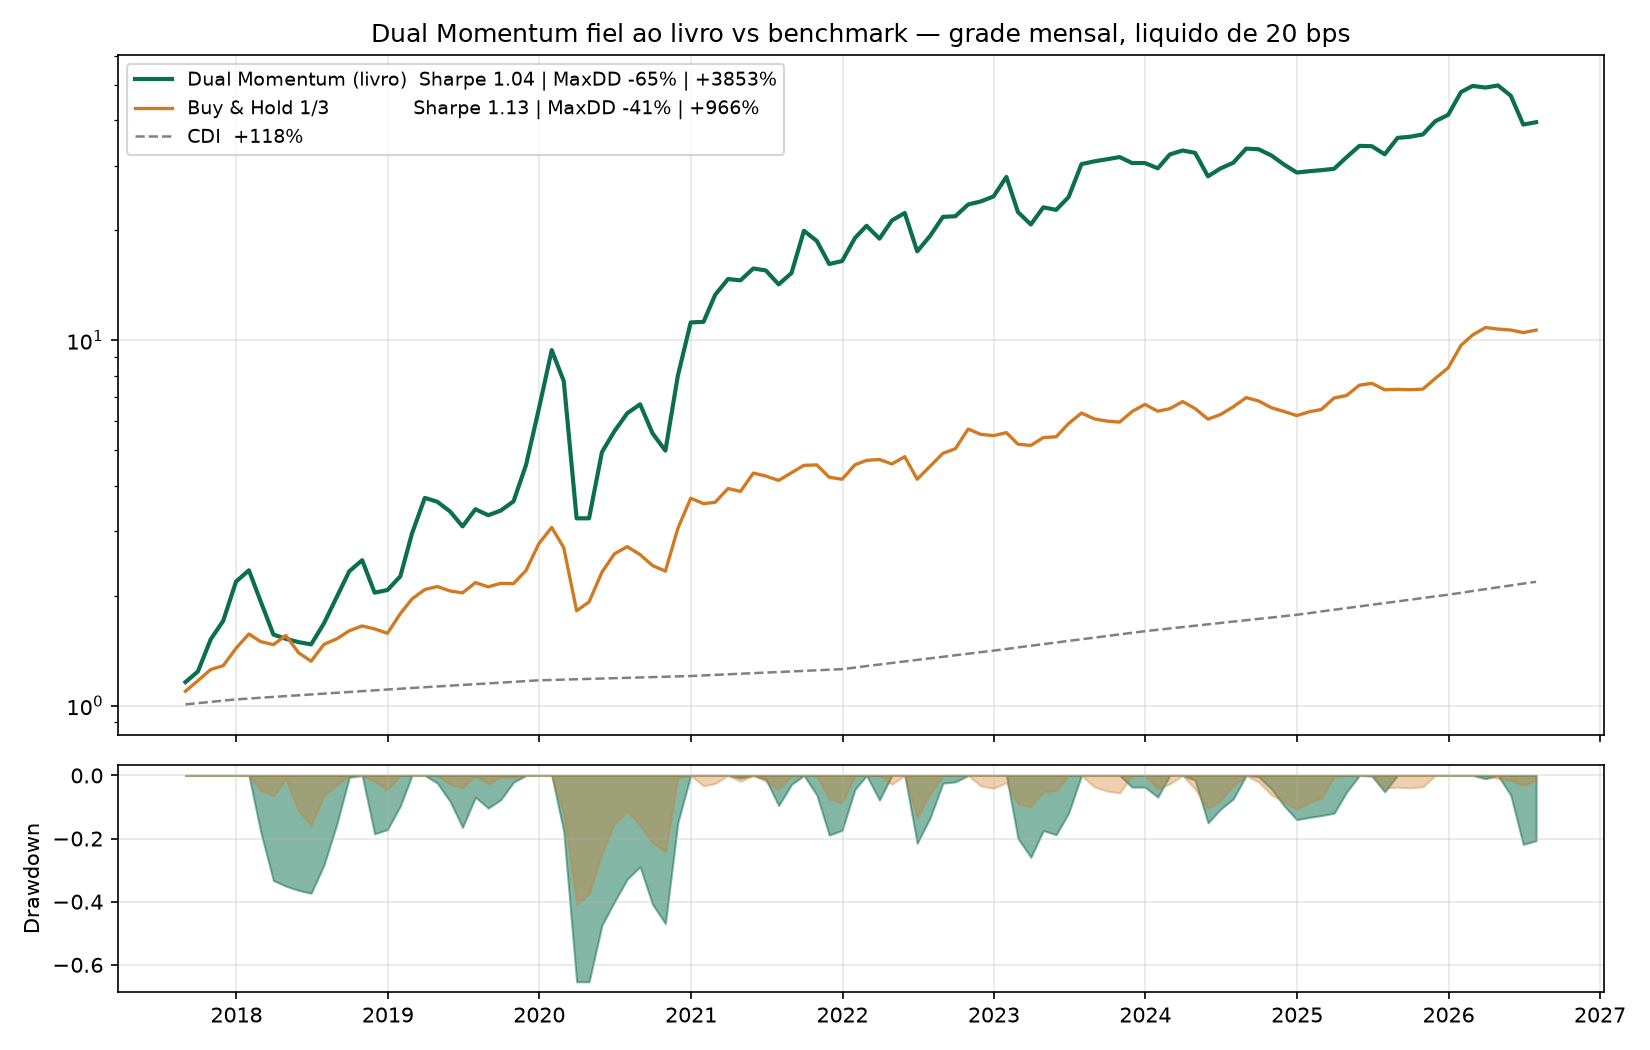
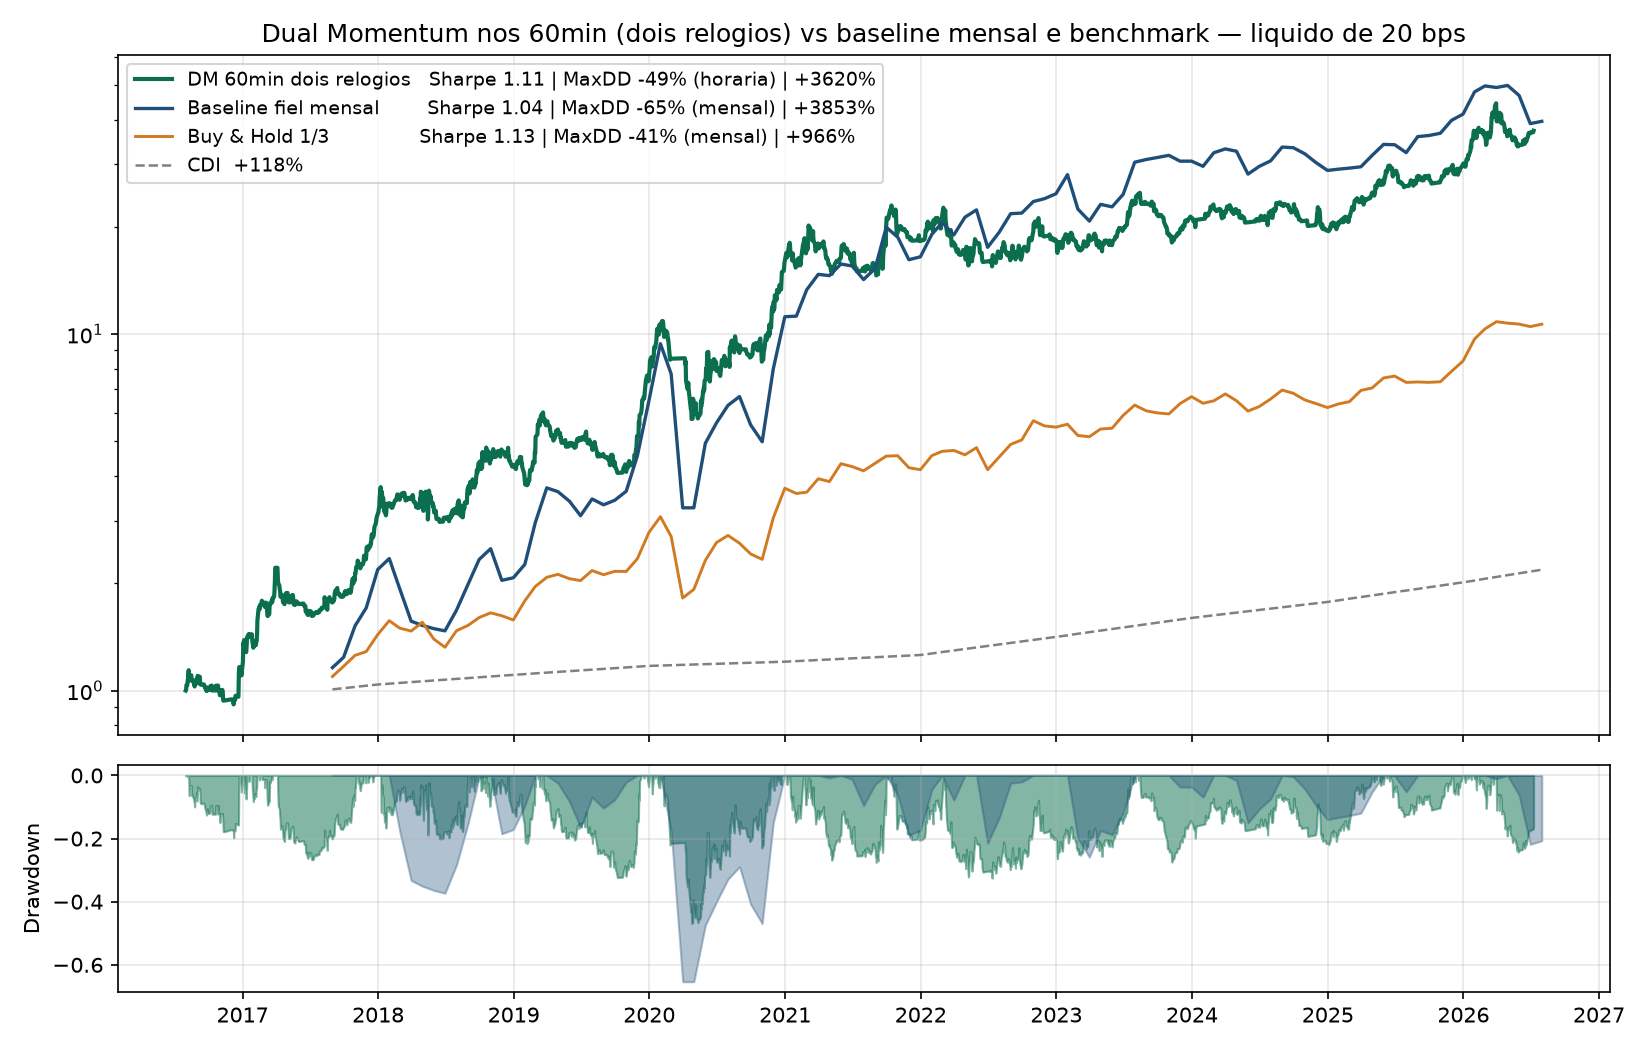
DM apresentado vira a versao 60min (dois relogios); mensal fica de baseline
dual_momentum.py agora roda o nucleo do livro nas barras de 60min com
histerese de 5% e perna absoluta travada no relogio diario (E33b).
Baseline fiel mensal preservado em dual_momentum_mensal.py. Grafico,
pseudocodigo e README atualizados com a leitura honesta (deflacao declarada).

diff --git a/dual_momentum_graf.py b/dual_momentum_graf.py
@@ -1,9 +1,9 @@
 # -*- coding: utf-8 -*-
 """
-Grafico da apresentacao: Dual Momentum fiel vs Buy & Hold 1/3 vs CDI
-Mesma logica e mesmos numeros do dual_momentum_livro.py (grade MENSAL, 20 bps).
-Gera dm_vs_benchmark.png (patrimonio em escala log + drawdown).
-Rodar da raiz Quantitative: python3 dual_momentum/dual_momentum_graf.py
+Grafico da apresentacao: Dual Momentum 60min (dois relogios) vs baseline mensal,
+Buy & Hold 1/3 e CDI. Mesmos numeros dos scripts dual_momentum_60min.py (curva
+horaria, amostrada no fim do dia para o grafico) e dual_momentum_mensal.py.
+Gera dual_momentum/dm_vs_benchmark.png. Rodar da raiz Quantitative.
 """
 import pandas as pd
 import numpy as np
@@ -11,61 +11,96 @@ import matplotlib
 matplotlib.use('Agg')
 import matplotlib.pyplot as plt
 
-CUSTO  = 0.0020
+CUSTO, BUFFER, LOOKBACK, HORAS_POR_ANO = 0.0020, 0.05, 140, 252 * 7
 ATIVOS = ['PRIO3', 'ITUB3', 'ABEV3']
 CDI_POR_ANO = {2016: 0.1400, 2017: 0.0993, 2018: 0.0642, 2019: 0.0596, 2020: 0.0276,
                2021: 0.0442, 2022: 0.1239, 2023: 0.1304, 2024: 0.1088, 2025: 0.1350,
                2026: 0.1500}
 
-# %% 1) Mesma preparacao do dual_momentum_livro.py
 base = pd.read_csv('dados/base_plana.csv', parse_dates=['data'])
-fech = (base[base['hora'] == 'dia'].set_index('data')[[f'{a}_fechamento' for a in ATIVOS]])
-fech.columns = ATIVOS
-mensal = fech.resample('ME').last()
-retorno = mensal.pct_change()
-cdi_mensal = (1 + pd.Series(mensal.index.year, index=mensal.index).map(CDI_POR_ANO)) ** (1/12) - 1
-cdi_12m    = (1 + cdi_mensal).rolling(12).apply(np.prod, raw=True) - 1
 
-momentum = mensal.pct_change(12)
-lider    = momentum.dropna(how='all').idxmax(axis=1).reindex(momentum.index)
-investe  = momentum.max(axis=1) > cdi_12m
-matriz_lider = pd.get_dummies(lider).reindex(index=mensal.index, columns=ATIVOS, fill_value=False)
-peso  = matriz_lider.mul(investe, axis=0).astype(float)
-caixa = 1 - peso.sum(axis=1)
+# %% 1) DM 60min — dois relogios (identico ao dual_momentum_60min.py)
+df = base[base['hora'] != 'dia'].copy()
+df['timestamp'] = pd.to_datetime(df['data'].dt.strftime('%Y-%m-%d') + ' ' + df['hora'])
+fech_h = df.sort_values('timestamp').set_index('timestamp')[[f'{a}_fechamento' for a in ATIVOS]]
+fech_h.columns = ATIVOS
+ret_h = fech_h.pct_change()
+cdi_hora = pd.Series((1 + fech_h.index.year.map(CDI_POR_ANO)) ** (1/HORAS_POR_ANO) - 1, index=fech_h.index)
+cdi_acum = (1 + cdi_hora).rolling(LOOKBACK).apply(np.prod, raw=True) - 1
+mom_h = fech_h.pct_change(LOOKBACK)
 
-# %% 2) As tres curvas no MESMO periodo (sinal de t paga em t+1)
-ret_dm  = ((peso.shift(1) * retorno).sum(axis=1) + caixa.shift(1) * cdi_mensal
-           - peso.diff().abs().sum(axis=1) * CUSTO).iloc[13:]
-ret_bh  = retorno.mean(axis=1).iloc[13:]                # 1/3 em cada acao, rebalanceado ao mes
-ret_cdi = cdi_mensal.iloc[13:]
+M, C, R, CDI = mom_h.values, cdi_acum.values, ret_h.values, cdi_hora.values
+novo_dia = np.r_[True, fech_h.index.normalize()[1:] != fech_h.index.normalize()[:-1]]
+posicao, investe = -1, False
+ret_barra = np.zeros(len(fech_h))
+for t in range(LOOKBACK + 1, len(fech_h) - 1):
+    m = M[t]
+    if np.isnan(m).all() or np.isnan(C[t]):
+        continue
+    lider = int(np.nanargmax(m))
+    if novo_dia[t]:
+        investe = m[lider] > C[t]
+    alvo = posicao
+    if not investe:
+        alvo = -1
+    elif posicao == -1:
+        alvo = lider
+    elif lider != posicao and m[lider] - m[posicao] > BUFFER:
+        alvo = lider
+    pernas = (alvo != posicao) * ((posicao != -1) + (alvo != -1))
+    posicao = alvo
+    ganho = R[t + 1, posicao] if posicao != -1 else CDI[t + 1]
+    ret_barra[t + 1] = (0.0 if np.isnan(ganho) else ganho) - pernas * CUSTO
+ret_dm60 = pd.Series(ret_barra, index=fech_h.index).iloc[LOOKBACK + 2:]
+eq_dm60  = (1 + ret_dm60).cumprod()
+sh_dm60  = ret_dm60.mean() / ret_dm60.std() * np.sqrt(HORAS_POR_ANO)
+dd_dm60  = (eq_dm60 / eq_dm60.cummax() - 1).min()
+eq_dm60_dia = eq_dm60.resample('D').last().dropna()          # amostra diaria SO para desenhar
 
-def resumo(r):
+# %% 2) Baseline mensal fiel + B&H 1/3 + CDI (identico ao dual_momentum_mensal.py)
+fech_d = (base[base['hora'] == 'dia'].set_index('data')[[f'{a}_fechamento' for a in ATIVOS]])
+fech_d.columns = ATIVOS
+mensal = fech_d.resample('ME').last()
+ret_m = mensal.pct_change()
+cdi_mes = (1 + pd.Series(mensal.index.year, index=mensal.index).map(CDI_POR_ANO)) ** (1/12) - 1
+cdi_12m = (1 + cdi_mes).rolling(12).apply(np.prod, raw=True) - 1
+mom_m = mensal.pct_change(12)
+lider_m = mom_m.dropna(how='all').idxmax(axis=1).reindex(mom_m.index)
+investe_m = mom_m.max(axis=1) > cdi_12m
+peso_m = pd.get_dummies(lider_m).reindex(index=mensal.index, columns=ATIVOS, fill_value=False)
+peso_m = peso_m.mul(investe_m, axis=0).astype(float)
+ret_gem = ((peso_m.shift(1) * ret_m).sum(axis=1) + (1 - peso_m.sum(axis=1)).shift(1) * cdi_mes
+           - peso_m.diff().abs().sum(axis=1) * CUSTO).iloc[13:]
+ret_bh  = ret_m.mean(axis=1).iloc[13:]
+
+def resumo(r, periodos):
     eq = (1 + r).cumprod()
-    return eq, r.mean() / r.std() * np.sqrt(12), (eq / eq.cummax() - 1).min()
+    return eq, r.mean() / r.std() * np.sqrt(periodos), (eq / eq.cummax() - 1).min()
 
-eq_dm, sh_dm, dd_dm = resumo(ret_dm)
-eq_bh, sh_bh, dd_bh = resumo(ret_bh)
-eq_cdi = (1 + ret_cdi).cumprod()
+eq_gem, sh_gem, dd_gem = resumo(ret_gem, 12)
+eq_bh,  sh_bh,  dd_bh  = resumo(ret_bh, 12)
+eq_cdi = (1 + cdi_mes.iloc[13:]).cumprod()
 
-# %% 3) O grafico: patrimonio (log) em cima, drawdown embaixo
+# %% 3) O grafico: patrimonio (log) + drawdown
 fig, (em_cima, embaixo) = plt.subplots(2, 1, figsize=(11, 7), sharex=True,
                                        gridspec_kw={'height_ratios': [3, 1]})
-em_cima.plot(eq_dm, color='#0b6e4f', lw=2,
-             label=f'Dual Momentum (livro)  Sharpe {sh_dm:.2f} | MaxDD {dd_dm:.0%} | {eq_dm.iloc[-1]-1:+.0%}')
-em_cima.plot(eq_bh, color='#d17a22', lw=1.6,
-             label=f'Buy & Hold 1/3              Sharpe {sh_bh:.2f} | MaxDD {dd_bh:.0%} | {eq_bh.iloc[-1]-1:+.0%}')
+em_cima.plot(eq_dm60_dia, color='#0b6e4f', lw=2,
+             label=f'DM 60min dois relogios   Sharpe {sh_dm60:.2f} | MaxDD {dd_dm60:.0%} (horaria) | {eq_dm60.iloc[-1]-1:+.0%}')
+em_cima.plot(eq_gem, color='#1f4e79', lw=1.6,
+             label=f'Baseline fiel mensal        Sharpe {sh_gem:.2f} | MaxDD {dd_gem:.0%} (mensal) | {eq_gem.iloc[-1]-1:+.0%}')
+em_cima.plot(eq_bh, color='#d17a22', lw=1.4,
+             label=f'Buy & Hold 1/3               Sharpe {sh_bh:.2f} | MaxDD {dd_bh:.0%} (mensal) | {eq_bh.iloc[-1]-1:+.0%}')
 em_cima.plot(eq_cdi, color='gray', lw=1.2, ls='--', label=f'CDI  {eq_cdi.iloc[-1]-1:+.0%}')
 em_cima.set_yscale('log')
-em_cima.set_title('Dual Momentum fiel ao livro vs benchmark — grade mensal, liquido de 20 bps')
+em_cima.set_title('Dual Momentum nos 60min (dois relogios) vs baseline mensal e benchmark — liquido de 20 bps')
 em_cima.legend(loc='upper left', fontsize=9)
 em_cima.grid(alpha=0.3)
 
-embaixo.fill_between(eq_dm.index, eq_dm / eq_dm.cummax() - 1, 0, color='#0b6e4f', alpha=0.5)
-embaixo.fill_between(eq_bh.index, eq_bh / eq_bh.cummax() - 1, 0, color='#d17a22', alpha=0.35)
+embaixo.fill_between(eq_dm60_dia.index, eq_dm60_dia / eq_dm60_dia.cummax() - 1, 0, color='#0b6e4f', alpha=0.5)
+embaixo.fill_between(eq_gem.index, eq_gem / eq_gem.cummax() - 1, 0, color='#1f4e79', alpha=0.35)
 embaixo.set_ylabel('Drawdown')
 embaixo.grid(alpha=0.3)
 
 fig.tight_layout()
-fig.savefig('dm_vs_benchmark.png', dpi=150)
-print(f'dm_vs_benchmark.png salvo | DM: Sharpe {sh_dm:.2f}, MaxDD {dd_dm:.0%} | '
-      f'B&H: Sharpe {sh_bh:.2f}, MaxDD {dd_bh:.0%}')
+fig.savefig('dual_momentum/dm_vs_benchmark.png', dpi=150)
+print(f'dm_vs_benchmark.png salvo | DM60: {sh_dm60:.2f}/{dd_dm60:.0%} | baseline: {sh_gem:.2f}/{dd_gem:.0%} | B&H: {sh_bh:.2f}/{dd_bh:.0%}')

diff --git a/dual_momentum.py b/dual_momentum.py
@@ -1,63 +1,95 @@
 # -*- coding: utf-8 -*-
 """
-Dual Momentum (Gary Antonacci) — fiel ao livro, na base do timestamp_certo.txt
-  1. RELATIVO : fim de cada mes, ranqueia os 3 ativos pelo retorno de 12 meses.
-  2. ABSOLUTO : o lider so entra se superar o CDI acumulado dos mesmos 12 meses.
-  3. ALOCACAO : 100% no lider, ou 100% em caixa a CDI.
-Sem look-ahead (sinal do mes t paga no mes t+1). Custos: 20 bps por perna.
+Dual Momentum nos 60 minutos — DOIS RELOGIOS (nucleo do livro + engenharia medida)
+  Nucleo do livro (Antonacci):
+    RELATIVO : fica no lider por momentum;  ABSOLUTO : so investe se o lider
+    superar o CDI acumulado do mesmo periodo; senao, 100% caixa a CDI.
+  Duas melhorias de engenharia, medidas em laboratorio (diario E30/E32/E33):
+    1. HISTERESE  : so troca de lider se o desafiante vencer por >5%
+       (a fronteira de custo tem PLATO em 5-12%, nao pico — E32)
+    2. DOIS RELOGIOS: a perna relativa decide a cada barra de 60min; a perna
+       absoluta so pode mudar de estado na 1a barra do dia — o liga-desliga
+       horario do caixa era o monstro do custo (625 trocas vs 100 — E32)
+  Sinal da barra t paga na barra t+1. Custos: 20 bps por perna.
 Requer dados/base_plana.csv (gerada pelo montar_base.py).
 """
 import pandas as pd
 import numpy as np
 
-CUSTO  = 0.0020
+CUSTO    = 0.0020
+BUFFER   = 0.05                       # vantagem minima para trocar de lider
+LOOKBACK = 140                        # ~20 dias uteis em barras de 60min
+HORAS_POR_ANO = 252 * 7
 ATIVOS = ['PRIO3', 'ITUB3', 'ABEV3']
 CDI_POR_ANO = {2016: 0.1400, 2017: 0.0993, 2018: 0.0642, 2019: 0.0596, 2020: 0.0276,
                2021: 0.0442, 2022: 0.1239, 2023: 0.1304, 2024: 0.1088, 2025: 0.1350,
                2026: 0.1500}
 
-# %% 1) Fechamentos diarios (a linha 'dia' da base) -> precos de fim de mes
+# %% 1) Barras de 60min com o timestamp real (exclui a linha 'dia')
 base = pd.read_csv('dados/base_plana.csv', parse_dates=['data'])
-fech = (base[base['hora'] == 'dia'].set_index('data')[[f'{a}_fechamento' for a in ATIVOS]])
+df = base[base['hora'] != 'dia'].copy()
+df['timestamp'] = pd.to_datetime(df['data'].dt.strftime('%Y-%m-%d') + ' ' + df['hora'])
+fech = df.sort_values('timestamp').set_index('timestamp')[[f'{a}_fechamento' for a in ATIVOS]]
 fech.columns = ATIVOS
-mensal = fech.resample('ME').last()
-retorno = mensal.pct_change()
-cdi_mensal = (1 + pd.Series(mensal.index.year, index=mensal.index).map(CDI_POR_ANO)) ** (1/12) - 1
-cdi_12m    = (1 + cdi_mensal).rolling(12).apply(np.prod, raw=True) - 1
+retorno = fech.pct_change()
 
-# %% 2) As duas pernas do livro
-momentum = mensal.pct_change(12)                                   # 12 meses, por calendario
-lider    = momentum.dropna(how='all').idxmax(axis=1).reindex(momentum.index)
-investe  = momentum.max(axis=1) > cdi_12m
+cdi_hora = pd.Series((1 + fech.index.year.map(CDI_POR_ANO)) ** (1/HORAS_POR_ANO) - 1, index=fech.index)
+cdi_acum = (1 + cdi_hora).rolling(LOOKBACK).apply(np.prod, raw=True) - 1
+momentum = fech.pct_change(LOOKBACK)
 
-matriz_lider = pd.get_dummies(lider).reindex(index=mensal.index, columns=ATIVOS, fill_value=False)
-peso  = matriz_lider.mul(investe, axis=0).astype(float)            # 100% no lider, se a perna absoluta deixar
-caixa = 1 - peso.sum(axis=1)
+# %% 2) A maquina de estados: dois relogios + histerese, barra a barra
+M, C, R, CDI = momentum.values, cdi_acum.values, retorno.values, cdi_hora.values
+novo_dia = np.r_[True, fech.index.normalize()[1:] != fech.index.normalize()[:-1]]
 
-# %% 3) Retorno (sinal de t paga em t+1) e resultados NOMEADOS
-ret_estrategia = ((peso.shift(1) * retorno).sum(axis=1) + caixa.shift(1) * cdi_mensal
-                  - peso.diff().abs().sum(axis=1) * CUSTO).iloc[13:]
+posicao, investe = -1, False                       # -1 = caixa
+ret_barra = np.zeros(len(fech))
+trocas_relativas = trocas_absolutas = 0
+custo_pago = 0.0
+
+for t in range(LOOKBACK + 1, len(fech) - 1):
+    m = M[t]
+    if np.isnan(m).all() or np.isnan(C[t]):
+        continue
+    lider = int(np.nanargmax(m))
+    if novo_dia[t]:                                # relogio LENTO: absoluto decide 1x por dia
+        investe = m[lider] > C[t]
+    alvo = posicao
+    if not investe:                                # perna absoluta manda pro caixa
+        alvo = -1
+    elif posicao == -1:                            # saindo do caixa: entra no lider
+        alvo = lider
+    elif lider != posicao and m[lider] - m[posicao] > BUFFER:   # histerese na troca
+        alvo = lider
+    pernas = 0
+    if alvo != posicao:
+        pernas = (posicao != -1) + (alvo != -1)    # vender um e/ou comprar outro
+        if alvo == -1 or posicao == -1:
+            trocas_absolutas += 1
+        else:
+            trocas_relativas += 1
+        custo_pago += pernas * CUSTO
+    posicao = alvo
+    ganho = R[t + 1, posicao] if posicao != -1 else CDI[t + 1]
+    ret_barra[t + 1] = (0.0 if np.isnan(ganho) else ganho) - pernas * CUSTO
+
+# %% 3) Resultados NOMEADOS
+ret_estrategia = pd.Series(ret_barra, index=fech.index).iloc[LOOKBACK + 2:]
 patrimonio    = (1 + ret_estrategia).cumprod()
-sharpe        = ret_estrategia.mean() / ret_estrategia.std() * np.sqrt(12)
+anos          = len(ret_estrategia) / HORAS_POR_ANO
+sharpe        = ret_estrategia.mean() / ret_estrategia.std() * np.sqrt(HORAS_POR_ANO)
 drawdown_max  = (patrimonio / patrimonio.cummax() - 1).min()
 retorno_total = patrimonio.iloc[-1] - 1
-meses_caixa   = (caixa.iloc[13:] == 1).mean()
-trocas        = int((peso.diff().abs().sum(axis=1).iloc[13:] > 0).sum())
-posicao_hoje  = lider.iloc[-1] if investe.iloc[-1] else 'CAIXA'
+custo_ano     = custo_pago / anos
+posicao_hoje  = ATIVOS[posicao] if posicao != -1 else 'CAIXA'
 
-# robustez e contexto: Sharpe por bloco de ~3 anos + benchmarks do mesmo periodo
 blocos = {}
-for inicio, fim in [(2017, 2019), (2020, 2022), (2023, 2026)]:
+for inicio, fim in [(2016, 2019), (2020, 2022), (2023, 2026)]:
     r = ret_estrategia.loc[str(inicio):str(fim)]
-    blocos[f'{inicio}-{fim}'] = r.mean() / r.std() * np.sqrt(12)
-bh_terco    = retorno.mean(axis=1).iloc[13:]                       # 1/3 em cada acao, rebalanceado ao mes
-sharpe_bh   = bh_terco.mean() / bh_terco.std() * np.sqrt(12)
-retorno_bh  = (1 + bh_terco).prod() - 1
-retorno_cdi = (1 + cdi_mensal.iloc[13:]).prod() - 1
+    blocos[f'{inicio}-{fim}'] = r.mean() / r.std() * np.sqrt(HORAS_POR_ANO)
 
-print('=== Dual Momentum fiel (12m por calendario, mensal, 20 bps) ===')
-print(f'Periodo: {ret_estrategia.index[0]:%Y-%m} a {ret_estrategia.index[-1]:%Y-%m}')
-print(f'Sharpe {sharpe:.2f} | MaxDD {drawdown_max:.0%} (regua mensal; na diaria e mais fundo) | retorno {retorno_total:.0%}')
-print(f'Caixa em {meses_caixa:.0%} dos meses | {trocas} trocas em {len(ret_estrategia)} meses | posicao hoje: {posicao_hoje}')
+print('=== Dual Momentum 60min — dois relogios (nucleo do livro + histerese 5%) ===')
+print(f'Periodo: {ret_estrategia.index[0]:%Y-%m} a {ret_estrategia.index[-1]:%Y-%m} | decisao a cada barra de 60min')
+print(f'Sharpe {sharpe:.2f} | MaxDD {drawdown_max:.0%} (regua HORARIA, a mais dura) | retorno {retorno_total:.0%}')
+print(f'Trocas: {trocas_relativas} de lider + {trocas_absolutas} do caixa | custo {custo_ano:.1%}/ano | posicao hoje: {posicao_hoje}')
 print('Sharpe por bloco: ' + ' | '.join(f'{nome}: {s:.2f}' for nome, s in blocos.items()))
-print(f'Benchmarks do periodo: B&H 1/3 Sharpe {sharpe_bh:.2f}, retorno {retorno_bh:.0%} | CDI {retorno_cdi:.0%}')
+print('Baseline fiel mensal (dual_momentum_mensal.py): Sharpe 1.04 | MaxDD -65% mensal | +3853%')

diff --git a/dual_momentum_mensal.py b/dual_momentum_mensal.py
@@ -1,0 +1,63 @@
+# -*- coding: utf-8 -*-
+"""
+Dual Momentum (Gary Antonacci) — fiel ao livro, na base do timestamp_certo.txt
+  1. RELATIVO : fim de cada mes, ranqueia os 3 ativos pelo retorno de 12 meses.
+  2. ABSOLUTO : o lider so entra se superar o CDI acumulado dos mesmos 12 meses.
+  3. ALOCACAO : 100% no lider, ou 100% em caixa a CDI.
+Sem look-ahead (sinal do mes t paga no mes t+1). Custos: 20 bps por perna.
+Requer dados/base_plana.csv (gerada pelo montar_base.py).
+"""
+import pandas as pd
+import numpy as np
+
+CUSTO  = 0.0020
+ATIVOS = ['PRIO3', 'ITUB3', 'ABEV3']
+CDI_POR_ANO = {2016: 0.1400, 2017: 0.0993, 2018: 0.0642, 2019: 0.0596, 2020: 0.0276,
+               2021: 0.0442, 2022: 0.1239, 2023: 0.1304, 2024: 0.1088, 2025: 0.1350,
+               2026: 0.1500}
+
+# %% 1) Fechamentos diarios (a linha 'dia' da base) -> precos de fim de mes
+base = pd.read_csv('dados/base_plana.csv', parse_dates=['data'])
+fech = (base[base['hora'] == 'dia'].set_index('data')[[f'{a}_fechamento' for a in ATIVOS]])
+fech.columns = ATIVOS
+mensal = fech.resample('ME').last()
+retorno = mensal.pct_change()
+cdi_mensal = (1 + pd.Series(mensal.index.year, index=mensal.index).map(CDI_POR_ANO)) ** (1/12) - 1
+cdi_12m    = (1 + cdi_mensal).rolling(12).apply(np.prod, raw=True) - 1
+
+# %% 2) As duas pernas do livro
+momentum = mensal.pct_change(12)                                   # 12 meses, por calendario
+lider    = momentum.dropna(how='all').idxmax(axis=1).reindex(momentum.index)
+investe  = momentum.max(axis=1) > cdi_12m
+
+matriz_lider = pd.get_dummies(lider).reindex(index=mensal.index, columns=ATIVOS, fill_value=False)
+peso  = matriz_lider.mul(investe, axis=0).astype(float)            # 100% no lider, se a perna absoluta deixar
+caixa = 1 - peso.sum(axis=1)
+
+# %% 3) Retorno (sinal de t paga em t+1) e resultados NOMEADOS
+ret_estrategia = ((peso.shift(1) * retorno).sum(axis=1) + caixa.shift(1) * cdi_mensal
+                  - peso.diff().abs().sum(axis=1) * CUSTO).iloc[13:]
+patrimonio    = (1 + ret_estrategia).cumprod()
+sharpe        = ret_estrategia.mean() / ret_estrategia.std() * np.sqrt(12)
+drawdown_max  = (patrimonio / patrimonio.cummax() - 1).min()
+retorno_total = patrimonio.iloc[-1] - 1
+meses_caixa   = (caixa.iloc[13:] == 1).mean()
+trocas        = int((peso.diff().abs().sum(axis=1).iloc[13:] > 0).sum())
+posicao_hoje  = lider.iloc[-1] if investe.iloc[-1] else 'CAIXA'
+
+# robustez e contexto: Sharpe por bloco de ~3 anos + benchmarks do mesmo periodo
+blocos = {}
+for inicio, fim in [(2017, 2019), (2020, 2022), (2023, 2026)]:
+    r = ret_estrategia.loc[str(inicio):str(fim)]
+    blocos[f'{inicio}-{fim}'] = r.mean() / r.std() * np.sqrt(12)
+bh_terco    = retorno.mean(axis=1).iloc[13:]                       # 1/3 em cada acao, rebalanceado ao mes
+sharpe_bh   = bh_terco.mean() / bh_terco.std() * np.sqrt(12)
+retorno_bh  = (1 + bh_terco).prod() - 1
+retorno_cdi = (1 + cdi_mensal.iloc[13:]).prod() - 1
+
+print('=== Dual Momentum fiel (12m por calendario, mensal, 20 bps) ===')
+print(f'Periodo: {ret_estrategia.index[0]:%Y-%m} a {ret_estrategia.index[-1]:%Y-%m}')
+print(f'Sharpe {sharpe:.2f} | MaxDD {drawdown_max:.0%} (regua mensal; na diaria e mais fundo) | retorno {retorno_total:.0%}')
+print(f'Caixa em {meses_caixa:.0%} dos meses | {trocas} trocas em {len(ret_estrategia)} meses | posicao hoje: {posicao_hoje}')
+print('Sharpe por bloco: ' + ' | '.join(f'{nome}: {s:.2f}' for nome, s in blocos.items()))
+print(f'Benchmarks do periodo: B&H 1/3 Sharpe {sharpe_bh:.2f}, retorno {retorno_bh:.0%} | CDI {retorno_cdi:.0%}')

diff --git a/README.md b/README.md
@@ -25,13 +25,18 @@ As alocacoes da Rotacao v2 (pesos fracionarios + caixa) e do Dual Momentum (tudo
 
 ![Sinais comparados](sinais_comparados.png)
 
-## Dual Momentum vs benchmark
+## Dual Momentum nos 60 minutos — dois relogios
 
-O baseline do livro contra o Buy & Hold 1/3 e o CDI, na mesma grade mensal do `dual_momentum.py` — `python3 dual_momentum_graf.py` gera:
+O `dual_momentum.py` aplica o nucleo do livro DIRETO nas barras de 60min, com duas melhorias de engenharia medidas em laboratorio: **histerese de 5%** na troca de lider (a fronteira de custo tem plato em 5-12%, nao pico) e **dois relogios** — a perna relativa decide a cada barra, a perna absoluta so pode mudar de estado na 1a barra do dia (o liga-desliga horario do caixa era ~80% do custo: 625 trocas contra 100).
+
+| Versao | Sharpe | MaxDD (regua) | Retorno | Custo/ano |
+|---|---|---|---|---|
+| **DM 60min dois relogios** | **1,11** | **-49% (horaria)** | +3.620% | 7,7% |
+| Baseline fiel mensal (`dual_momentum_mensal.py`) | 1,04 | -65% (mensal; -79% diaria) | +3.853% | ~0 |
 
 ![DM vs benchmark](dm_vs_benchmark.png)
 
-**Leitura honesta:** o DM ganha em retorno (+3.853% vs +966%) por concentracao composta (100% no lider), mas o B&H 1/3 tem Sharpe maior (1,13 vs 1,04) e drawdown menor (-41% vs -65%) — diversificar 3 acoes ja paga mais eficiencia que rotacionar entre elas. E exatamente a lacuna que o vol target da v2 fecha.
+**Leitura honesta:** a versao 60min usa o timestamp real (cada troca acontece num preco que existiu na tela), segura o drawdown na regua mais dura de todas e paga 7,7%/ano de custo por essa reatividade. Descontada a selecao de variantes testadas no laboratorio (~0,12 de barreira), o Sharpe liquido EMPATA com o baseline mensal — a escolha pela versao 60min se sustenta na regua de risco e no realismo de execucao, nao num Sharpe "maior". O baseline permanece no repo como ancora de comparacao. Contra o B&H 1/3 (Sharpe 1,13): o DM compra retorno por concentracao; eficiencia e papel do vol target da v2.
 
 ## Como rodar
 
@@ -39,7 +44,8 @@ O baseline do livro contra o Buy & Hold 1/3 e o CDI, na mesma grade mensal do `d
 pip install -r requirements.txt
 python3 rotacao.py          # metricas da v2
 python3 rotacao_graf.py     # v2 + grafico (3 paineis)
-python3 dual_momentum.py    # baseline do livro (Antonacci)
+python3 dual_momentum.py            # DM nos 60min (dois relogios) — o apresentado
+python3 dual_momentum_mensal.py     # baseline fiel ao livro (mensal)
 python3 comparativo.py      # compara as 4 estrategias + grafico
 python3 sinais.py           # exporta a alocacao diaria por ativo
 ```
@@ -51,8 +57,9 @@ Requer a pasta `dados/` com CSVs no formato `date,open,high,low,close,adjustedCl
 |---|---|
 | `rotacao.py` | Estrategia v2 (nucleo legivel, comentado) |
 | `rotacao_graf.py` | v2 + grafico de 3 paineis |
-| `dual_momentum.py` | Dual Momentum fiel ao livro (baseline de comparacao) |
-| `dual_momentum_graf.py` | DM vs B&H 1/3 vs CDI (grafico, grade mensal) |
+| `dual_momentum.py` | Dual Momentum nos 60min — dois relogios (o apresentado) |
+| `dual_momentum_mensal.py` | Baseline fiel ao livro, mensal (ancora de comparacao) |
+| `dual_momentum_graf.py` | DM 60min vs baseline mensal vs B&H 1/3 vs CDI (grafico) |
 | `comparativo.py` | Comparativo das 4 estrategias + grafico |
 | `sinais.py` | Exporta a alocacao diaria por ativo |
 | `Pseudocodigo_v2.docx` | Pseudocodigo da v2 (linha a linha) |